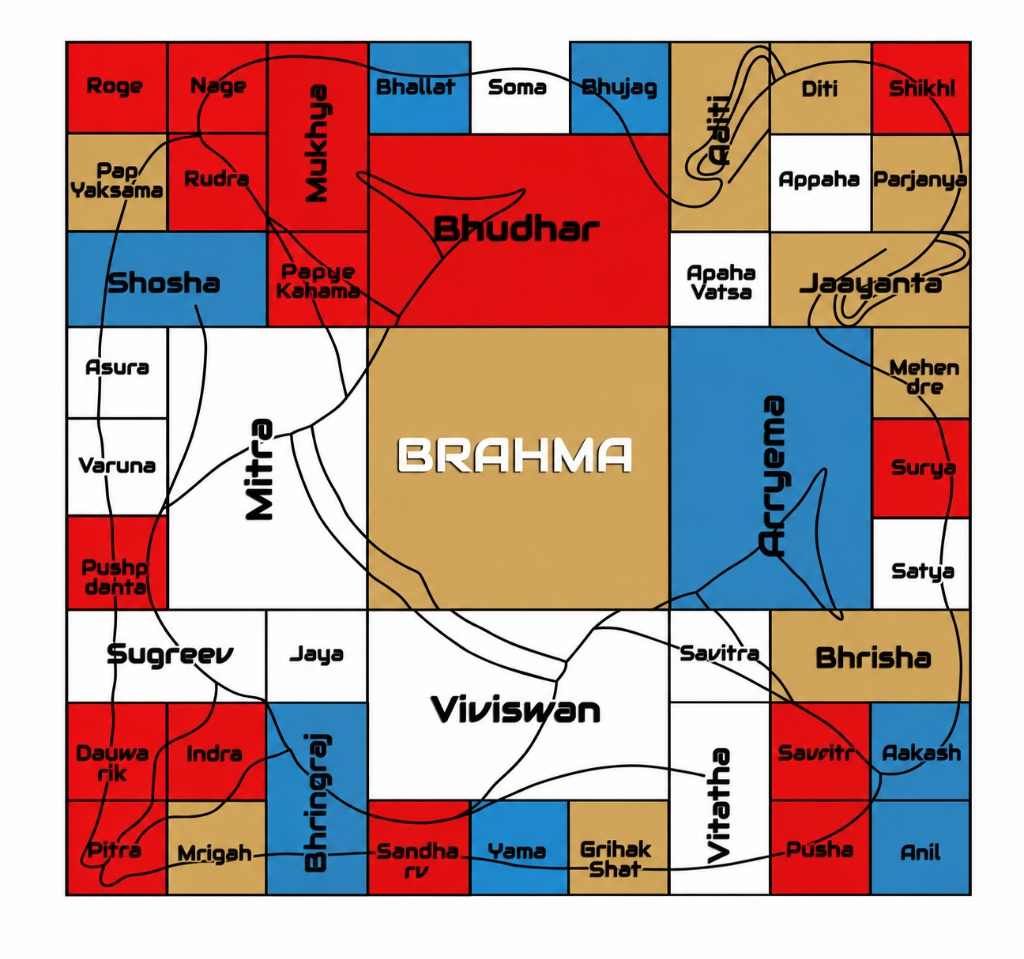
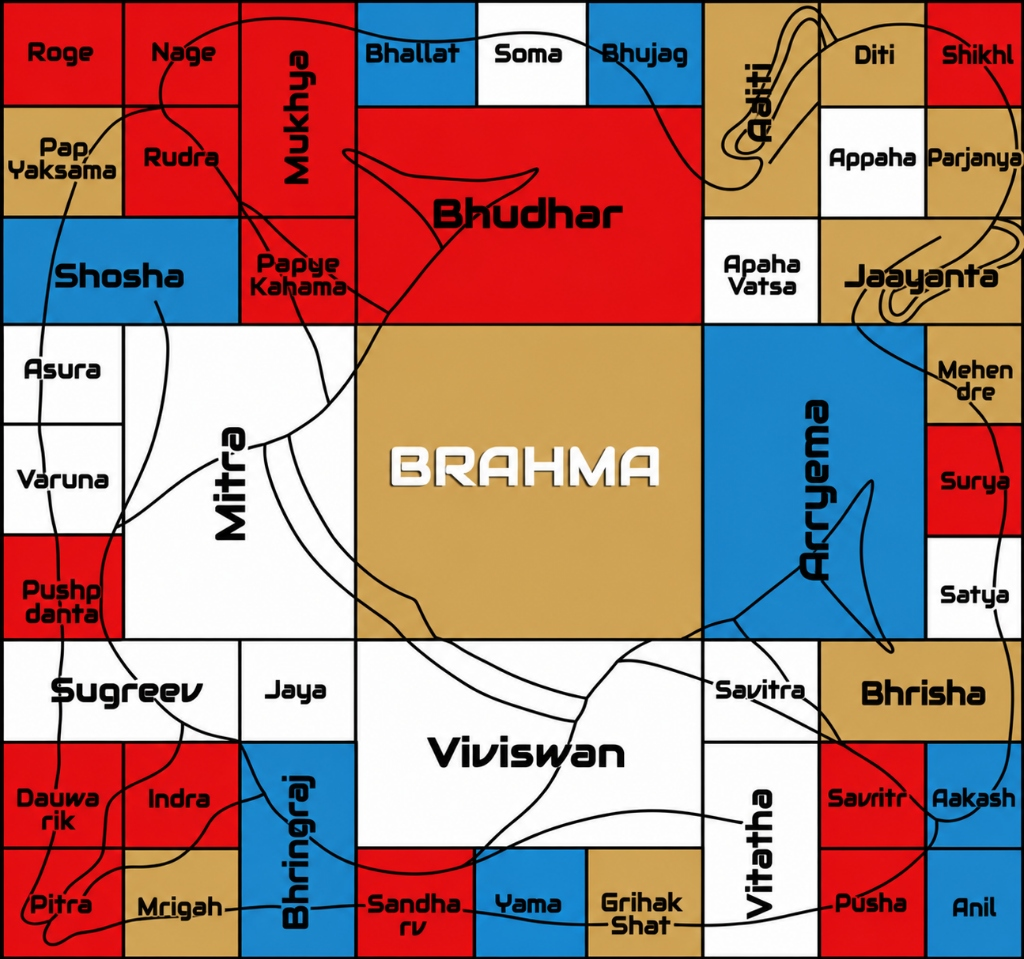
de

diff --git a/src/components/site/Sections.tsx b/src/components/site/Sections.tsx
@@ -638,7 +638,7 @@ export function Vastu() {
             className="reveal relative flex items-center justify-center"
             style={{ "--d": "300ms" } as React.CSSProperties}
           >
-            <div className="relative w-full max-w-[530px] overflow-hidden rounded-xl bg-white p-2 transition-transform duration-500 hover:scale-[1.01]">
+            <div className="relative w-full max-w-[530px] overflow-hidden rounded-xl bg-white p-2 shadow-none transition-transform duration-500 hover:scale-[1.01] hover:shadow-none">
               <img
                 src={vastuMandala}
                 alt="Vastu Purusha Mandala layout and directional energies chart"
@@ -774,13 +774,13 @@ export function Services() {
                 <div className="pointer-events-none absolute -right-10 -top-10 h-36 w-36 rounded-full bg-[#067688]/0 blur-2xl transition-all duration-500 group-hover:scale-125 group-hover:bg-[#067688]/15" />
 
                 <div className="relative">
-                  {/* Top Row: Icon Badge + Watermark Number */}
+                  {/* Top Row: Icon + Watermark Number */}
                   <div className="flex items-center justify-between">
-                    <div className="grid h-16 w-16 place-items-center rounded-2xl border border-[#067688]/20 bg-[#067688]/10 shadow-sm transition-all duration-500 group-hover:scale-110 group-hover:rotate-[-3deg] group-hover:border-[#067688] group-hover:bg-[#067688] group-hover:shadow-lg group-hover:shadow-[#067688]/30">
+                    <div className="flex h-12 w-12 sm:h-14 sm:w-14 items-center justify-center transition-transform duration-300 group-hover:scale-110">
                       <img
                         src={srv.icon}
                         alt=""
-                        className="h-10 w-10 object-contain transition-all duration-300 group-hover:brightness-0 group-hover:invert"
+                        className="h-full w-full object-contain"
                       />
                     </div>
                     <span className="font-display text-4xl sm:text-5xl font-extrabold tracking-wider text-[#067688]/15 transition-all duration-500 group-hover:text-[#067688]/35 select-none">
